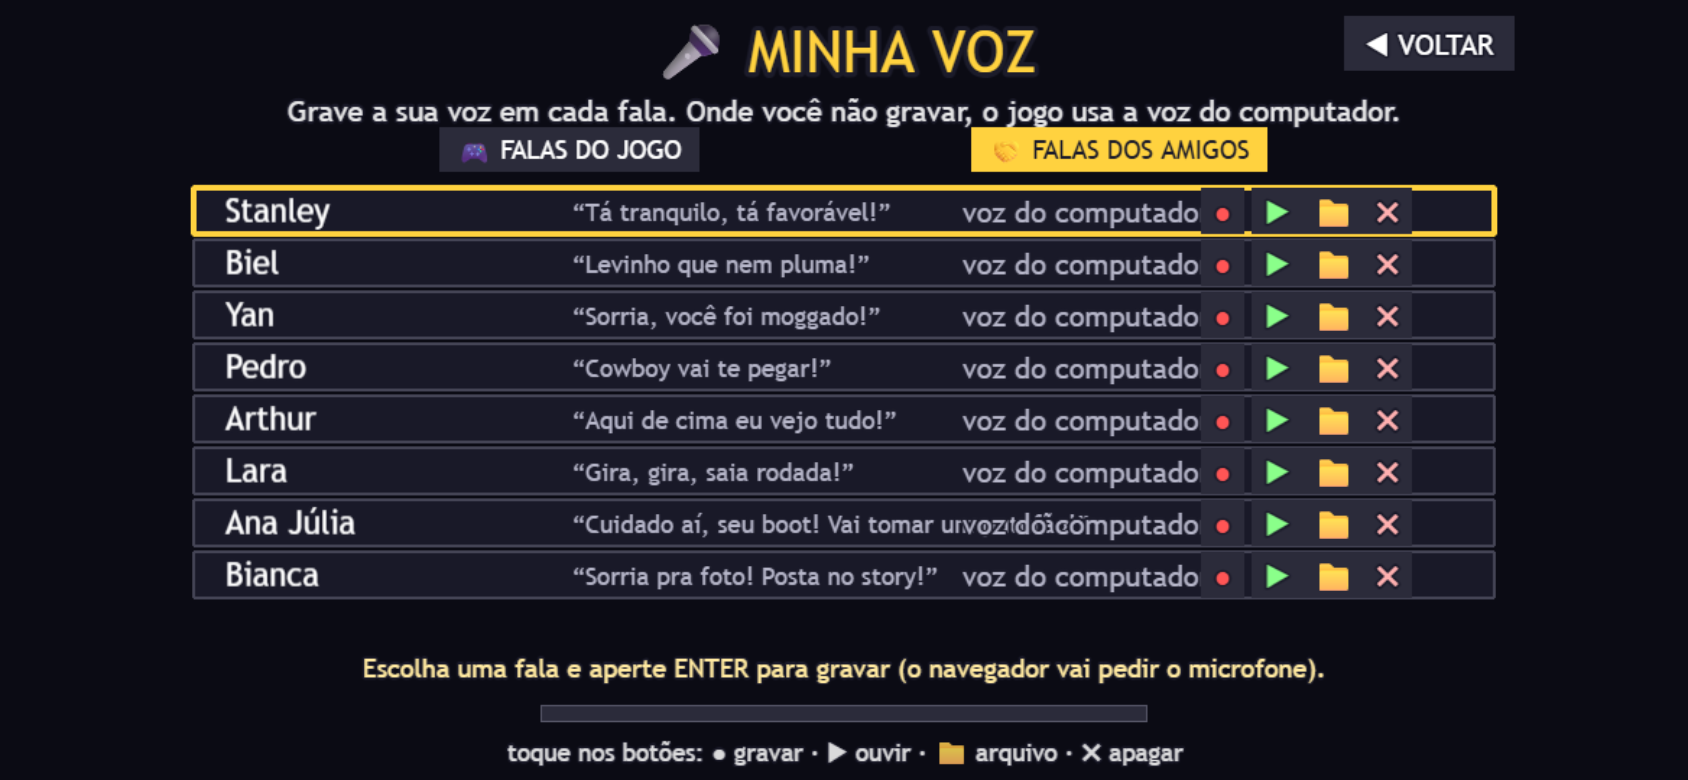
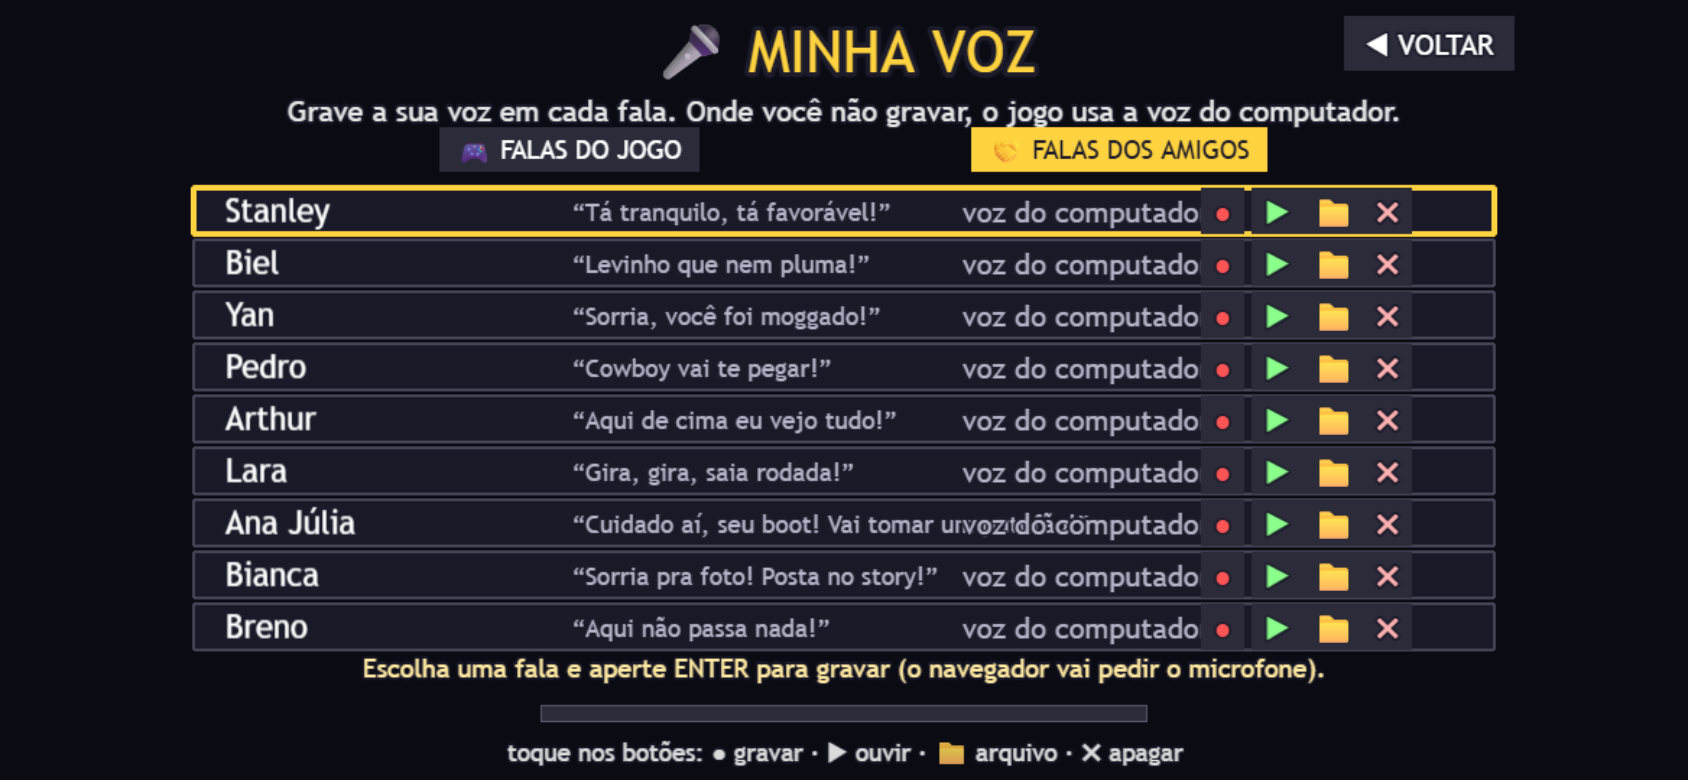
Amigo Breno (goleiro): camisa listrada, luvas, meioes; poder Paredao (defende e devolve tiros, inimigos ficam zonzos)

Changed region(s): [[0.0924, 0.7692, 0.8934, 0.8615]]

diff --git a/src/scenes/Game.js b/src/scenes/Game.js
@@ -58,7 +58,7 @@ class GameScene extends Phaser.Scene {
     this.heroK = heroScale();                          // boneco alto (Arthur): o desenho aumenta, a colisão não
     this.ability = OUTFITS[currentOutfit()].ability || null;   // poder ATIVO do amigo (ex.: a Saia Rodada da Lara), usado com X ou o botão 🌀
     this.ability2 = OUTFITS[currentOutfit()].ability2 || null;   // segundo poder (Ana Júlia: tocha), tecla C / botão 🔥
-    this.abilityCd = 0; this.abilityQueued = false; this.twirlUntil = 0; this.ability2Cd = 0; this.ability2Queued = false;
+    this.abilityCd = 0; this.abilityQueued = false; this.twirlUntil = 0; this.ability2Cd = 0; this.ability2Queued = false; this.wallUntil = 0;
     // Consumíveis comprados valem para esta fase (no reinício da fase eles voltam, sem gastar de novo)
     this.buffs = data.buffs || Shop.takeBuffs();
     if (!data.buffs && this.buffs.includes('coxinha')) this.stats.lives++;
@@ -323,7 +323,16 @@ class GameScene extends Phaser.Scene {
     this.physics.add.overlap(this.skirtShots, this.enemies, this.skirtHit, null, this);
     this.physics.add.overlap(this.skirtShots, this.shots, (s, sh) => { this.fxParty.explode(5, sh.x, sh.y); sh.destroy(); });
     this.physics.add.collider(this.skirtShots, this.layer, (s) => { this.fxParty.explode(6, s.x, s.y); s.destroy(); });
+    this.physics.add.overlap(this.shots, this.enemies, this.skirtHit, (sh, e) => !!(sh.reflected && !e.dead), this);   // tiro devolvido pelo goleiro acerta quem atirou
     this.physics.add.overlap(this.player, this.shots, (pl, shot) => {
+      if (shot.reflected) return;
+      if (this.wallUntil > this.time.now) {                // Paredão do Breno: defende e devolve com força
+        shot.reflected = true; shot.kind = 'defesa';
+        const b = shot.body; shot.setVelocity(-b.velocity.x * 1.5 - Math.sign(b.velocity.x) * 60, -b.velocity.y * 1.2);
+        this.time.delayedCall(2200, () => shot.active && shot.destroy());
+        this.floatText(pl.x, pl.y - 50, '🧤 DEFENDEU!', '#ffe27a', 18); this.fxParty.explode(8, shot.x, shot.y); Sfx.tone(240, 0.12, { type: 'square', vol: 0.08 });
+        return;
+      }
       if (this.powerTime > 0) { shot.destroy(); return; }
       shot.destroy();
       this.die('inimigo');
@@ -822,6 +831,16 @@ class GameScene extends Phaser.Scene {
         }
       });
     }
+    if (this.wallFx) {                                     // as luvas ficam na frente do goleiro enquanto o Paredão está ativo
+      const alive = this.wallUntil > time, pbx = this.player.body;
+      if (!alive) { this.wallFx.destroy(); this.wallFx = null; }
+      else {
+        const dir = this.facing >= 0 ? 1 : -1;
+        this.wallFx.setPosition(pbx.center.x + dir * 26, pbx.center.y - 2).setScale(1 + Math.sin(time / 60) * 0.08).setAlpha(this.wallUntil - time < 400 && Math.floor(time / 70) % 2 ? 0.4 : 1);
+        g.setTint(0xfff1a0);
+      }
+      if (!alive) g.clearTint();
+    }
     if (this.invuln > 0) {
       this.invuln -= dt;
       g.setAlpha(this.invuln > 0 && Math.floor(time / 80) % 2 ? 0.3 : 1);
@@ -1159,6 +1178,18 @@ class GameScene extends Phaser.Scene {
   // ---- Poder ativo: Saia Rodada da Lara. Gira e lança uma rajada (a saia) que acerta o inimigo de longe ----
   abIcon() { return this.ability.icon || (this.ability.id === 'tiro' ? '🔫' : '🌀'); }
 
+  // Breno: Paredão. Por 1,5 s o goleiro fecha o gol: nada o machuca, inimigo que encosta fica zonzo e tiros inimigos voltam com força
+  fireParedao() {
+    this.wallUntil = this.time.now + 1500;
+    const pb = this.player.body;
+    if (this.wallFx) this.wallFx.destroy();
+    this.wallFx = this.add.text(pb.center.x, pb.center.y, '🧤', { fontSize: '46px' }).setOrigin(0.5).setDepth(9);
+    this.floatText(pb.center.x, pb.top - 24, '🧤 PAREDÃO!', '#ffe27a', 20);
+    this.fxParty.explode(10, pb.center.x, pb.center.y);
+    Sfx.tone(160, 0.2, { type: 'square', to: 110, vol: 0.09 });
+    Sfx.tone(320, 0.1, { type: 'triangle', vol: 0.06, delay: 0.05 });
+  }
+
   // Bianca: flash de foto. Todo inimigo na tela vira "fã": fica parado, rosado, inofensivo (dá pra pisar) e rende pontos
   fireFlash() {
     const cam = this.cameras.main, view = cam.worldView, now = this.time.now;
@@ -1209,6 +1240,7 @@ class GameScene extends Phaser.Scene {
     this.abilityCd = this.ability.cooldown;
     if (this.ability.id === 'tiro') return this.fireTiro();
     if (this.ability.id === 'flash') return this.fireFlash();
+    if (this.ability.id === 'paredao') return this.fireParedao();
     const dir = this.facing >= 0 ? 1 : -1;
     const pb = this.player.body;
     const s = this.skirtShots.create(pb.center.x + dir * 18, pb.center.y - 2, 'saia_rajada');
@@ -1233,7 +1265,7 @@ class GameScene extends Phaser.Scene {
       e.hp--; e.setTintFill(0xffffff); this.time.delayedCall(120, () => e.active && e.clearTint());
       this.speech(e, 'Ai! Mais uma!');
     } else this.defeatEnemy(e, true);
-    Achievements.unlock(shot.kind ? 'tocha' : 'saia');
+    Achievements.unlock(shot.kind === 'defesa' ? 'paredao' : shot.kind ? 'tocha' : 'saia');
   }
 
   spawnEnemy(key, cx, bottom, cfg) {
@@ -1564,6 +1596,12 @@ class GameScene extends Phaser.Scene {
     const pb = player.body;
     const eb = enemy.body;
     const stomping = pb.velocity.y > 0 && pb.bottom <= eb.top + 12;
+    if (this.wallUntil > this.time.now && !stomping && !enemy.moto && !enemy.eva && !(this.powerTime > 0)) {    // Paredão: quem encosta leva um empurrão e fica zonzo
+      enemy.stunUntil = this.time.now + 2000; enemy.setTint(0xffe27a);
+      enemy.setVelocityX(Math.sign(enemy.x - player.x || 1) * 200);
+      this.fxParty.explode(8, enemy.x, enemy.y); this.speech(enemy, 'Ui!');
+      return;
+    }
     if (enemy.stunUntil > this.time.now && !stomping && !(this.powerTime > 0)) return;       // fã hipnotizado não machuca
     if (this.powerTime > 0 && !enemy.moto && !enemy.eva) {
       // No modo 67 é só encostar (menos nos chefões Paraíba e Eva)
@@ -1981,7 +2019,7 @@ class GameScene extends Phaser.Scene {
   die(cause = 'queda') {
     if (this.dead || this.finished) return;
     if (cause !== 'queda') {
-      if (this.powerTime > 0 || this.invuln > 0) return;
+      if (this.powerTime > 0 || this.invuln > 0 || this.wallUntil > this.time.now) return;
       if (this.hasAura) { this.breakAura(); return; }
       if (this.big) { this.hurtBig(); return; }          // o churros leva o golpe no seu lugar
     }

diff --git a/src/config.js b/src/config.js
@@ -275,6 +275,12 @@ const FRIENDS = {
       shirt: 0xf4a6b8, shirtDark: 0xd9809a, shorts: 0xfbf7f0, shortsDark: 0xdcd5c6 },
     hairStyle: 'trancas', necklace: 0xe8c860, bracelet: 0xf0e6c8, shoes: 0xf0e6d0,
   },
+  breno: {
+    name: 'Breno', who: 'Breno', desc: 'O goleiro da turma! Camisa amarela listrada de preto, luvas, meiões pretos e muita reza na hora do pênalti.',
+    colors: { hair: 0x15100c, hairDark: 0x0b0806, hairLight: 0x2e221a, skin: 0xc99a6c, skinDark: 0xa57650,
+      shirt: 0xf2d12a, shirtDark: 0xc4a31a, shorts: 0x2a5fd0, shortsDark: 0x1d44a0 },
+    hairStyle: 'curto', shirtStripes: 0x16161a, gloves: 0x2a5fd0, socks: 0x1a1a20, socksStripe: 0xffffff, shoes: 'chuteira',
+  },
 };
 // Frase (dublável na tela Minha voz) e poder de cada amigo. perk: speed (corre mais) · jump (pula mais) · coin (moeda vale mais) · magnet (puxa moedas, em pixels)
 const FRIEND_EXTRA = {
@@ -288,6 +294,8 @@ const FRIEND_EXTRA = {
     ability2: { id: 'tocha', name: 'Tocha', desc: 'C: tocha acesa em arco', cooldown: 2.3 } },
   bianca:  { phrase: 'Sorria pra foto! Posta no story!', pitch: 1.3,
     ability: { id: 'flash', icon: '📸', name: 'Flash do Story', desc: 'X: flash! Inimigos na tela viram fãs parados', cooldown: 7 } },
+  breno:   { phrase: 'Aqui não passa nada!', pitch: 0.9,
+    ability: { id: 'paredao', icon: '🧤', name: 'Paredão', desc: 'X: defesa! Protege 1,5 s e devolve os tiros', cooldown: 6 } },
   arthur:  { phrase: 'Aqui de cima eu vejo tudo!', pitch: 0.85, perk: { name: 'Piadista', desc: '+1 s de proteção ao renascer (todo mundo ri)', respawnInvuln: 1 } },
 };
 Object.keys(FRIENDS).forEach((k) => { OUTFITS[k] = { ...FRIENDS[k], ...(FRIEND_EXTRA[k] || {}), friend: true }; });
@@ -321,6 +329,7 @@ const FRIEND_CHAT = {
   biel:     ['Levinho que nem pluma!', 'Vou de coxinha hoje.', 'Alguém viu o Brunucho?'],
   yan:      ['Sorria, você foi moggado!', 'Hoje eu pago o lanche!', 'Esse look ficou sigma, né?'],
   pedro:    ['Cowboy vai te pegar!', 'Vou comprar um chapéu novo.', 'Eita, que calor!'],
+  breno:    ['Aqui não passa nada!', 'Pênalti? Pode bater!', 'Hoje eu fecho o gol.'],
   arthur:   ['Aqui de cima eu vejo tudo!', 'Quer ouvir uma piada?', 'Essa música tá boa demais.'],
   lara:     ['Gira, gira, saia rodada!', 'Meu irmão Brunucho chegou!', 'Vim comprar fita pra minha saia.'],
   anajulia: ['Cuidado aí, seu boot!', 'Procurando tesouro nessas lojas...', 'Alguém viu minha tocha?'],

diff --git a/src/textures.js b/src/textures.js
@@ -977,6 +977,7 @@ function drawPlayer(g, o, pose = 'idle') {
   g.fillStyle(upperBack); g.fillRect(2 + sl * 2, 18 - P.arm, 5 - sl, 4);
   g.fillStyle(lowerBack); g.fillRect(2 + sl * 2, 22 - P.arm, 5 - sl, 3);
   g.fillStyle(c.skinDark); g.fillRect(2 + sl * 2, 25 - P.arm, 4 - sl, 3);
+  if (o.gloves) { g.fillStyle(0xdcdcdc); g.fillRoundedRect(1 + sl * 2, 24 - P.arm, 6 - sl, 5, 1); g.fillStyle(o.gloves); g.fillRect(1 + sl * 2, 24 - P.arm, 6 - sl, 1); }   // luva (mão de trás)
 
   // pernas, meiões e sapatos
   g.fillStyle(o.pants ? c.shorts : c.skin); A(7 + sl, 30, 4 - sl, 4); B(15, 30, 4 - sl, 4);
@@ -1094,6 +1095,7 @@ function drawPlayer(g, o, pose = 'idle') {
     g.fillStyle(0xffd23f); g.fillCircle(tx + 1, ty - 4, 2);
     g.fillStyle(0xfff6c0); g.fillCircle(tx + 1, ty - 3.5, 0.9);
   }
+  if (o.gloves) { g.fillStyle(0xffffff); g.fillRoundedRect(19 - sl * 2, 23 + P.arm, 6 - sl, 6, 1); g.fillStyle(o.gloves); g.fillRect(19 - sl * 2, 23 + P.arm, 6 - sl, 1); g.fillStyle(0xc8c8c8); g.fillRect(21 - sl * 2, 26 + P.arm, 1, 2); }   // luva de goleiro
   if (o.bracelet) { g.fillStyle(o.bracelet); g.fillRect(19 - sl * 2, 23 + P.arm, 5 - sl, 2); }     // pulseira no pulso
 
   // cabeça

diff --git a/src/achievements.js b/src/achievements.js
@@ -69,6 +69,7 @@ const ACHIEVEMENTS = [
   { id: 'saia',        icon: '🌀', name: 'Gira, Gira!',           desc: 'Derrubar um inimigo de longe com a rajada da saia da Lara' },
   { id: 'tocha',       icon: '🔥', name: 'Tomb Raider de Cotia',  desc: 'Derrubar um inimigo com o tiro ou a tocha da Ana Júlia' },
   { id: 'flash',       icon: '📸', name: 'Digna de Story',        desc: 'Hipnotizar 3 inimigos de uma vez com o flash da Bianca' },
+  { id: 'paredao',     icon: '🧤', name: 'Paredão do Breno',      desc: 'Devolver um tiro inimigo com a defesa do Breno e acertar alguém' },
   { id: 'escola_entrou', icon: '🏫', name: 'Aluno Pontual',        desc: 'Entrar na Escola Zacarias' },
   { id: 'terceiro_d',  icon: '🚪', name: 'Terceiro D',            desc: 'Chegar na sala do 3º D, no fim do corredor' },
   { id: 'eva',         icon: '📝', name: 'Nota Dez',              desc: 'Derrotar a professora Eva na sala de aula' },

diff --git a/README.md b/README.md
@@ -76,7 +76,7 @@ música da intro, de vitória e de game over. As notas ficam em `SONGS` e dá pr
 
 ### Conquistas
 
-**70 conquistas**, como *Fugiu da Chinelada*, *Mogador Serial*, *Haja Coração!*, *Foi Pênalti?*, *Sigma do Combo*,
+**71 conquistas**, como *Fugiu da Chinelada*, *Mogador Serial*, *Haja Coração!*, *Foi Pênalti?*, *Sigma do Combo*,
 *Atropelamento 67*, *A Andreia Te Achou* e *Modo Andreia* (zerar no Difícil). Aparece um aviso na tela quando desbloqueia
 e dá pra ver todas no menu. A lista fica em `src/achievements.js`.
 
@@ -282,7 +282,7 @@ em `SHOPS` e `Shop`, no `src/shop.js`. Conquistas novas: *Turista em Cotia*, *Cl
 ### Amigos (personagens jogáveis)
 
 No guarda-roupa (**ROUPA** no menu) há duas abas: **ROUPAS** (os 10 looks do Brunucho) e **AMIGOS**, com personagens jogáveis feitos a partir
-de fotos de amigos, com o nome aparecendo em cima deles. O Brunucho continua sendo o protagonista da história. Amigos atuais: **Stanley**, **Biel** (Gabriel Silva, corpo magrinho) , **Yan**, **Pedro** (de cowboy), **Arthur** (alto, de fone no ouvido e pulseira vermelha) **Lara** (a "irmã" do Brunucho: cabelo preso num coque, flor no cabelo e saia rodada de carimbó) **Ana Júlia** (exploradora estilo Lara Croft, com coldre, tocha e pistola) e **Bianca** (tranças longas, regata rosa e pose de story).
+de fotos de amigos, com o nome aparecendo em cima deles. O Brunucho continua sendo o protagonista da história. Amigos atuais: **Stanley**, **Biel** (Gabriel Silva, corpo magrinho) , **Yan**, **Pedro** (de cowboy), **Arthur** (alto, de fone no ouvido e pulseira vermelha) **Lara** (a "irmã" do Brunucho: cabelo preso num coque, flor no cabelo e saia rodada de carimbó) **Ana Júlia** (exploradora estilo Lara Croft, com coldre, tocha e pistola) **Bianca** (tranças longas, regata rosa e pose de story) e **Breno** (o goleiro: camisa amarela listrada, luvas e meiões pretos).
 Pra adicionar um amigo, crie uma entrada em `FRIENDS`, no `src/config.js` (cores, `hairStyle`, `beard`, `glasses`, `cap`, `thickBrows`, `slim`, `pants`, `smile`, `hoodie`, `cowboy`, `plaid`, `earbuds`, `bracelet`, `chestPrint`, `tall` (boneco mais alto)...).
 As fotos **não** vão pro repositório, só o desenho pixelado.
 
@@ -300,6 +300,11 @@ Cada amigo tem um **poder** (aparece no guarda-roupa e no começo da fase) e uma
 | Ana Júlia | **Tiro** (X) e **Tocha** (C), poderes ativos | "Cuidado aí, seu boot! Vai tomar um putufão!" |
 
 | Bianca | **Flash do Story** (poder ativo) | "Sorria pra foto! Posta no story!" |
+
+| Breno | **Paredão** (poder ativo) | "Aqui não passa nada!" |
+
+**Poder ativo do Breno — Paredão:** aperte **X** (botão 🧤 no celular). Por **1,5 s** o goleiro fecha o gol: nada o machuca, um par de luvas gigantes aparece na frente dele,
+**inimigo que encosta fica zonzo** (2 s, inofensivo) e os **tiros inimigos voltam com força** e derrubam quem atirou. Recarga de 6 s. Conquista *Paredão do Breno*.
 
 **Poder ativo da Bianca — Flash do Story:** aperte **X** (botão 📸 no celular). A tela pisca como flash de câmera e **todo inimigo que está na tela vira "fã"**:
 fica parado, rosado, com um ❤, **não machuca** (e ainda dá para pisar) por 4 segundos, e cada fã rende 50 pontos. Chefões não são afetados. Recarga de 7 s. Conquista *Digna de Story* (3 fãs de uma vez).
